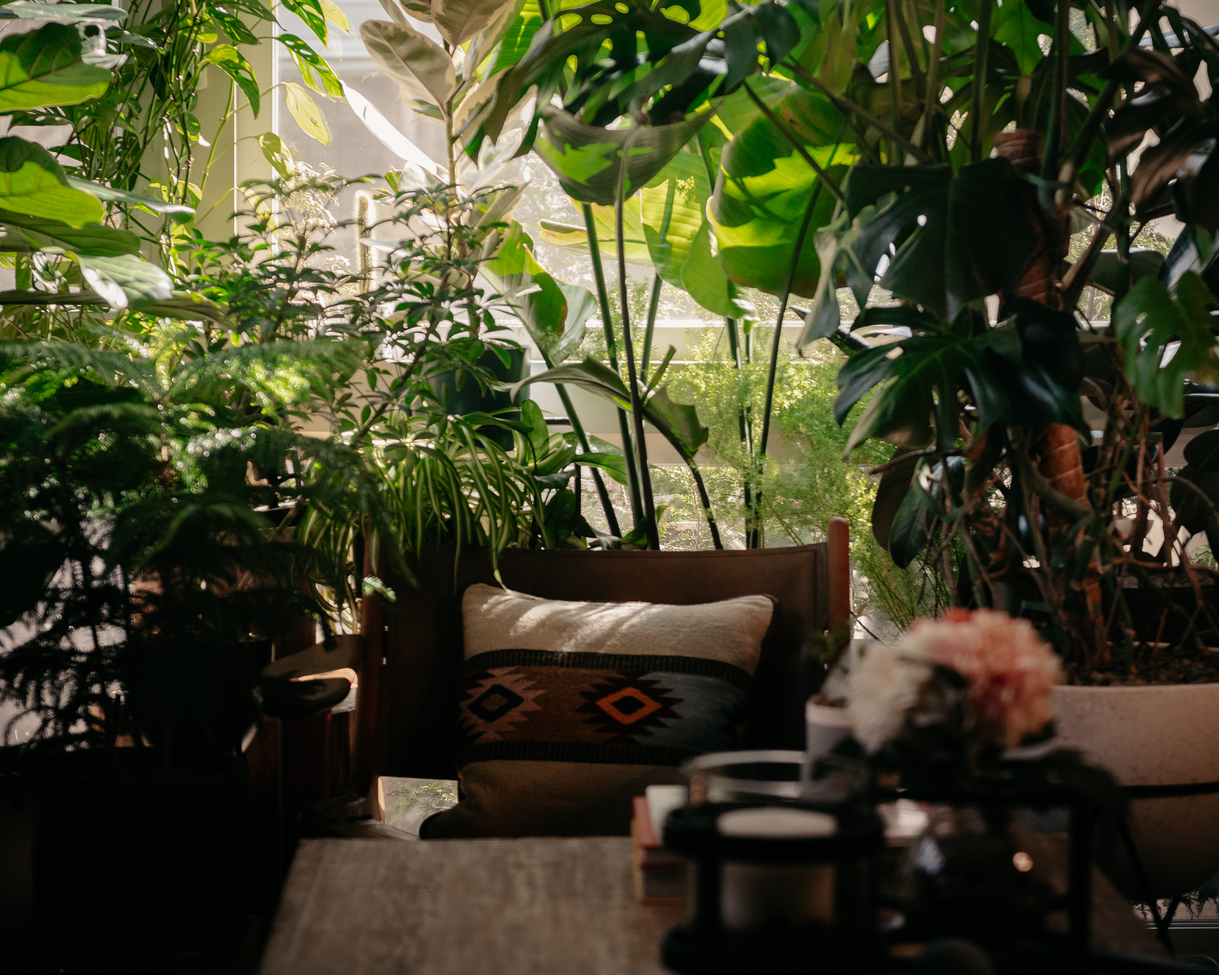
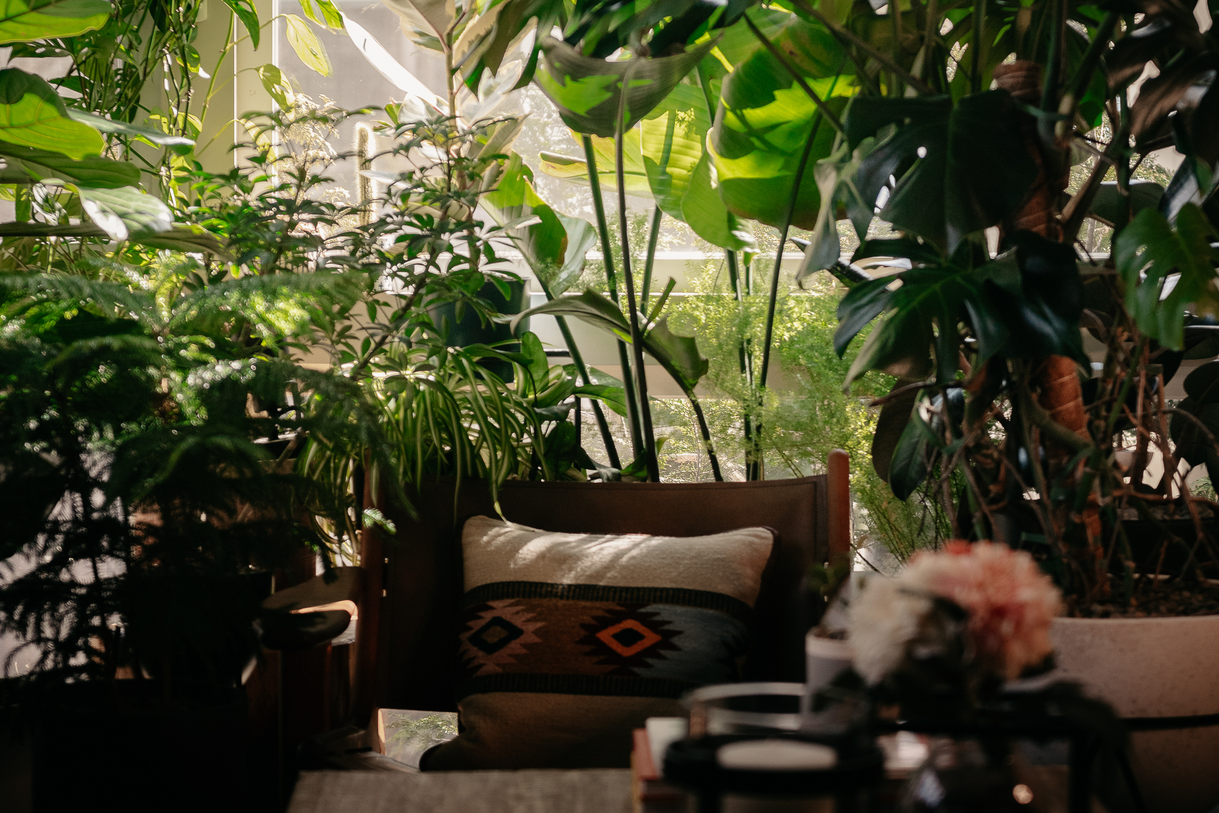
New image files

diff --git a/src/components/PlantCard.js b/src/components/PlantCard.js
@@ -1,7 +1,7 @@
 import React, { useState } from "react";
 
 function PlantCard({ plant, onFavoriteClick, onUnfavoriteClick }) {
-  const { id, name, image, light, watering, safety, favorite } = plant;
+  const { name, image, light, watering, safety, favorite } = plant;
 
   function handleFavClick() {
     plant.favorite = true;

diff --git a/src/components/Home.js b/src/components/Home.js
@@ -3,7 +3,7 @@ function Home() {
   return (
     <div className="home">
       <div className="home-image">
-        <img src="https://i.imgur.com/tlzAh7M.jpg" alt="Home-image"></img>
+        <img src="https://i.imgur.com/cmSAQBd.jpg" alt="Home-image"></img>
       </div>
       <div className="about-text">
         <br></br>
